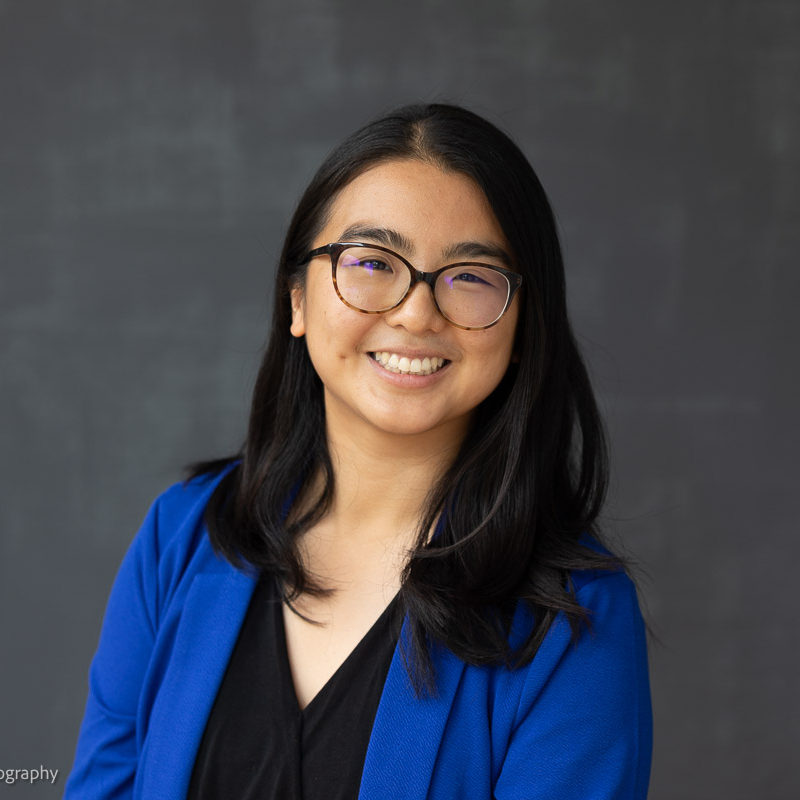
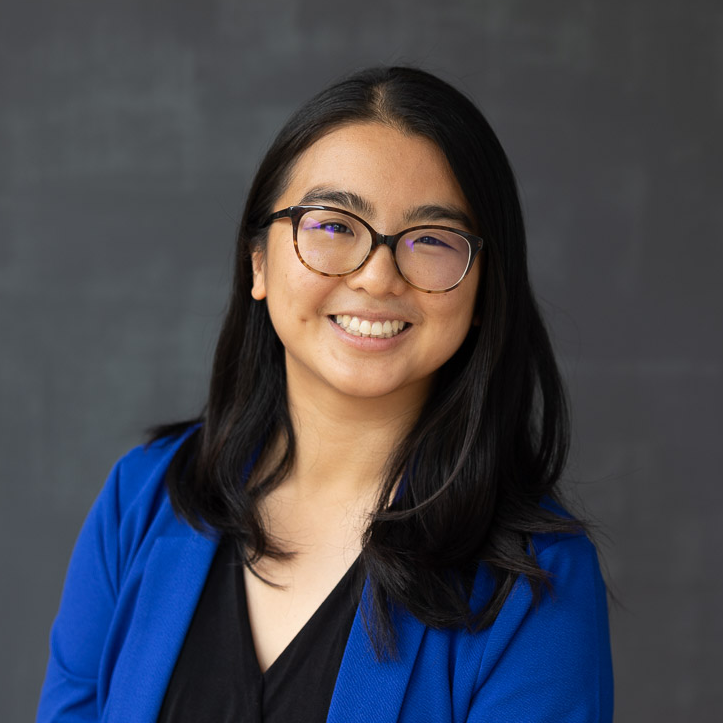
added photo credits, modified profile photos, added newsletter link

Changed region(s): [[0.0, 0.0913, 0.852, 1.0], [0.7303, 0.9129, 0.7607, 0.9433], [0.426, 0.9737, 0.4564, 1.0]]

diff --git a/about.html b/about.html
@@ -31,9 +31,12 @@
 								<li><a href="index.html">Home</a></li>
 								<li><a href="#content">About</a></li>
 								<li><a href="projects.html">Projects</a></li>
-								<li><a href="#cta">Resources</a></li>
+								<li><a href="#cta">Contact Us</a></li>
 							</ul>
 						</nav>
+
+						<!-- way to add newline -->
+						<br><br>
 
 						<!-- Content -->
 							<section id="content" class="main">
@@ -43,6 +46,7 @@
 								<div class="biosleft">
 									<div class="headshot">
 										<img src="images/prof-emily-square.png" alt="Photo of Professor Emily" width="100%"/>
+										<figcaption><i>Photo by Rosen-Jones Photography</i></figcaption>
 									</div>
 									<div>
 										<h2>Emily Q. Wang (Lab Director & Assistant Professor of Computer Science)</h2>
@@ -52,18 +56,20 @@
 								<!-- Lloyd May -->
 								<div class="biosright">
 									<div>
-										<h2>Lloyd May (Co-investigator and External Research Collaborator)</h2>
-										<p><a href="https://www.lloydmay.net/">Lloyd May</a> (he/him) is a PhD candidate in music technology at Stanford University and a [TITLE] at Oberlin. Lloyd’s research focuses on the interaction media-interaction technologies and Disabled joy. Lloyd’s current work includes democratizing tools for haptic/vibration music generation, developing open-source tools for cochlear implant users to personalize their music listening experience, as well as a novel format for closed-captioning that would afford additional user customization. In his spare time, Lloyd co-runs <a href="https://paranoidpanda.net/">Paranoid Panda</a>, an indie game studio, and enjoys mosh pits and crocheting. </p>
+										<h2>Lloyd May (Co-Investigator and External Research Collaborator)</h2>
+										<p><a href="https://www.lloydmay.net/">Lloyd May</a> (he/him)  is a PhD candidate in music technology at Stanford University and a Co-Investigator for the Access Profiles research project. Lloyd’s research focuses on the interaction media-interaction technologies and Disabled joy. Lloyd’s current work includes democratizing tools for haptic/vibration music generation, developing open-source tools for cochlear implant users to personalize their music listening experience, as well as a novel format for closed-captioning that would afford additional user customization. In his spare time, Lloyd co-runs <a href="https://paranoidpanda.net/">Paranoid Panda</a>, an indie game studio, and enjoys mosh pits and crocheting. </p>
 									</div>
 									<div class="headshot">
 										<img src="images/lloyd-square.png" alt="Photo of Lloyd" width="100%"/>
+										<!-- to do -->
+										<figcaption><i>Photo by</i></figcaption>
 									</div>
 								<!-- Ryn -->
-								<!-- ask about alt text (name preference) -->
 								</div>
 								<div class="biosleft">
 									<div class="headshot">
 										<img src="images/ryn-square.png" alt="Picture of Graham" width="100%"/>
+										<figcaption><i>Photo by Thomas Hill, OC ‘24</i></figcaption>
 									</div>
 									<div>
 										<h2>Graham Lazorchak (Computer Science & Composition ‘24)</h2>
@@ -77,13 +83,15 @@
 										<p>Oscar (he/him) is a fourth-year Cinema and Media major at Oberlin College. He loves making and playing games of all kinds, especially co-op ones! For this lab, Oscar works on the design and software development sides of our game projects, including the museum platform fighter (with Amanda!) and Intern at Allen. He has also released a puzzle game called <a href="https://store.steampowered.com/app/2371110/FittingIn/">Fitting In</a> and always has new game ideas cooking.</p>
 									</div>
 									<div class="headshot">
-										<img src="images/oscar-square.png" alt="Picture of Oscar" width="100%"/>
+										<img src="images/oscar-square-2.png" alt="Picture of Oscar" width="100%"/>
+										<figcaption><i>Photo by Amanda Rabin</i></figcaption>
 									</div>
 								</div>
-								<!-- Dan-Ha -->
+								<!-- Dan Ha -->
 								<div class="biosleft">
 									<div class="headshot">
 										<img src="images/dan-ha-square.png" alt="Picture of Dan-Ha" width="100%"/>
+										<figcaption><i>Photo by Dan-Ha Le</i></figcaption>
 									</div>
 									<div>
 										<h2>Dan-Ha Le (Computer Science & Politics ‘25)</h2>
@@ -96,20 +104,22 @@
 								<div class="biosright">
 									<div>
 										<h2>Abby Lewin (Computer Science ‘25)</h2>
-										<p>TBD</p>
+										<p>Abby (she/her) is a fourth-year Computer Science major at Oberlin College. She is interested in both game design and human computer interfaces, and the overlap between the two. As part of the lab Abby has worked on creating video game assets inspired by the Allen Memorial Art Museum, has contributed to the development of Intern at Allen, and is working on iterating on museum games that were made by past students in the game design course. Additionally, Abby is a co-designer of the lab website. Outside of work, Abby likes interior design, playing a multitude of video games, and building Legos.</p>
 									</div>
 									<div class="headshot">
 										<img src="images/abby-square.png" alt="Picture of Abby" width="100%"/>
+										<figcaption><i>Photo by Abby Lewin</i></figcaption>
 									</div>
 								</div>
 								<!-- Amanda -->
 								<div class="biosleft">
 									<div class="headshot">
 										<img src="images/amanda-square.png" alt="Picture of Amanda" width="100%"/>
+										<figcaption><i>Photo by Lauren Rabin</i></figcaption>
 									</div>
 									<div>
 										<h2>Amanda Rabin (Computer Science & Studio Art ‘26)</h2>
-										<p>Amanda (she/her) is a third-year double majoring in Computer Science and Studio Art at Oberlin College. She is interested in the intersection between these two disciplines and has furthered her exploration through game art and design. In the lab, she has contributed to projects including a museum platform fighter game (created with Oscar!) and Intern at Allen. As an artist, her Junior Studio projects investigate the notions of repetition, process, and play through work in ceramics, illustration, and more. When she is not in the lab, Amanda enjoys puzzles, matcha, and chocolate croissants!</p>
+										<p>Amanda (she/her) is a third-year double majoring in Computer Science and Studio Art at Oberlin College. She is interested in the intersection between these two disciplines and has furthered her exploration through game art and design. In the lab, she has contributed to projects including a museum platform fighter game (created with Oscar!) and Intern at Allen. She is also a co-designer of the lab website. As an artist, her Junior Studio projects investigate the notions of repetition, process, and play through work in ceramics, illustration, and more. When she is not in the lab, Amanda enjoys doing puzzles, throwing pots, and eating chocolate croissants!</p>
 									</div>
 								</div>
 							</section>
@@ -127,7 +137,7 @@
 							<dt>Collab</dt>
 							<dd><a href="https://forms.gle/9JgWuWz8Dw4CtZaZ9">Playtester and Content Design Collaboration</a></dd>
 							<dt>Newsletter</dt>
-							<dd>[link]</dd>
+							<dd><a href="https://docs.google.com/forms/d/e/1FAIpQLSd8BPGzjk5V6mJP6su2wlQTyUFH3yqANwLAGC3nsjNGfM6NMA/viewform">CS Newsletter Signup</a></dd>
 							<dt>Email</dt>
 							<dd>ewang1@oberlin.edu</dd>
 						</dl>

diff --git a/index.html b/index.html
@@ -30,7 +30,7 @@
 							<li><a href="#intro" class="active">Home</a></li>
 							<li><a href="#first">About</a></li>
 							<li><a href="projects.html">Projects</a></li>
-							<li><a href="#cta">Resources</a></li>
+							<li><a href="#cta">Contact</a></li>
 						</ul>
 					</nav>
 
@@ -68,7 +68,7 @@
 									<li>
 										<span class="image"><img src="images/lloyd-circle.png" width="200" alt="Picture of Lloyd" /></span>
 										<h3>Lloyd May</h3>
-										<p>Co-investigator and External Research Collaborator</p>
+										<p>Co-Investigator and External Research Collaborator</p>
 									</li>
 								</ul>
 								<ul class="features">
@@ -78,7 +78,7 @@
 										<p>Computer Science & Composition ‘24</p>
 									</li>
 									<li>
-										<span class="image"><img src="images/oscar-circle-clear.png" width="200" alt="Picture of Oscar" /></span>
+										<span class="image"><img src="images/oscar-circle.png" width="200" alt="Picture of Oscar" /></span>
 										<h3>Oscar Davenport</h3>
 										<p>Cinema & Media ‘25</p>
 									</li>
@@ -172,7 +172,7 @@
 							<dt>Collab</dt>
 							<dd><a href="https://forms.gle/9JgWuWz8Dw4CtZaZ9">Playtester and Content Design Collaboration</a></dd>
 							<dt>Newsletter</dt>
-							<dd>[link]</dd>
+							<dd><a href="https://docs.google.com/forms/d/e/1FAIpQLSd8BPGzjk5V6mJP6su2wlQTyUFH3yqANwLAGC3nsjNGfM6NMA/viewform">CS Newsletter Signup</a></dd>
 							<dt>Email</dt>
 							<dd>ewang1@oberlin.edu</dd>
 						</dl>

diff --git a/projects.html b/projects.html
@@ -63,7 +63,7 @@
 							<dt>Collab</dt>
 							<dd><a href="https://forms.gle/9JgWuWz8Dw4CtZaZ9">Playtester and Content Design Collaboration</a></dd>
 							<dt>Newsletter</dt>
-							<dd>[link]</dd>
+							<dd><a href="https://docs.google.com/forms/d/e/1FAIpQLSd8BPGzjk5V6mJP6su2wlQTyUFH3yqANwLAGC3nsjNGfM6NMA/viewform">CS Newsletter Signup</a></dd>
 							<dt>Email</dt>
 							<dd>ewang1@oberlin.edu</dd>
 						</dl>
